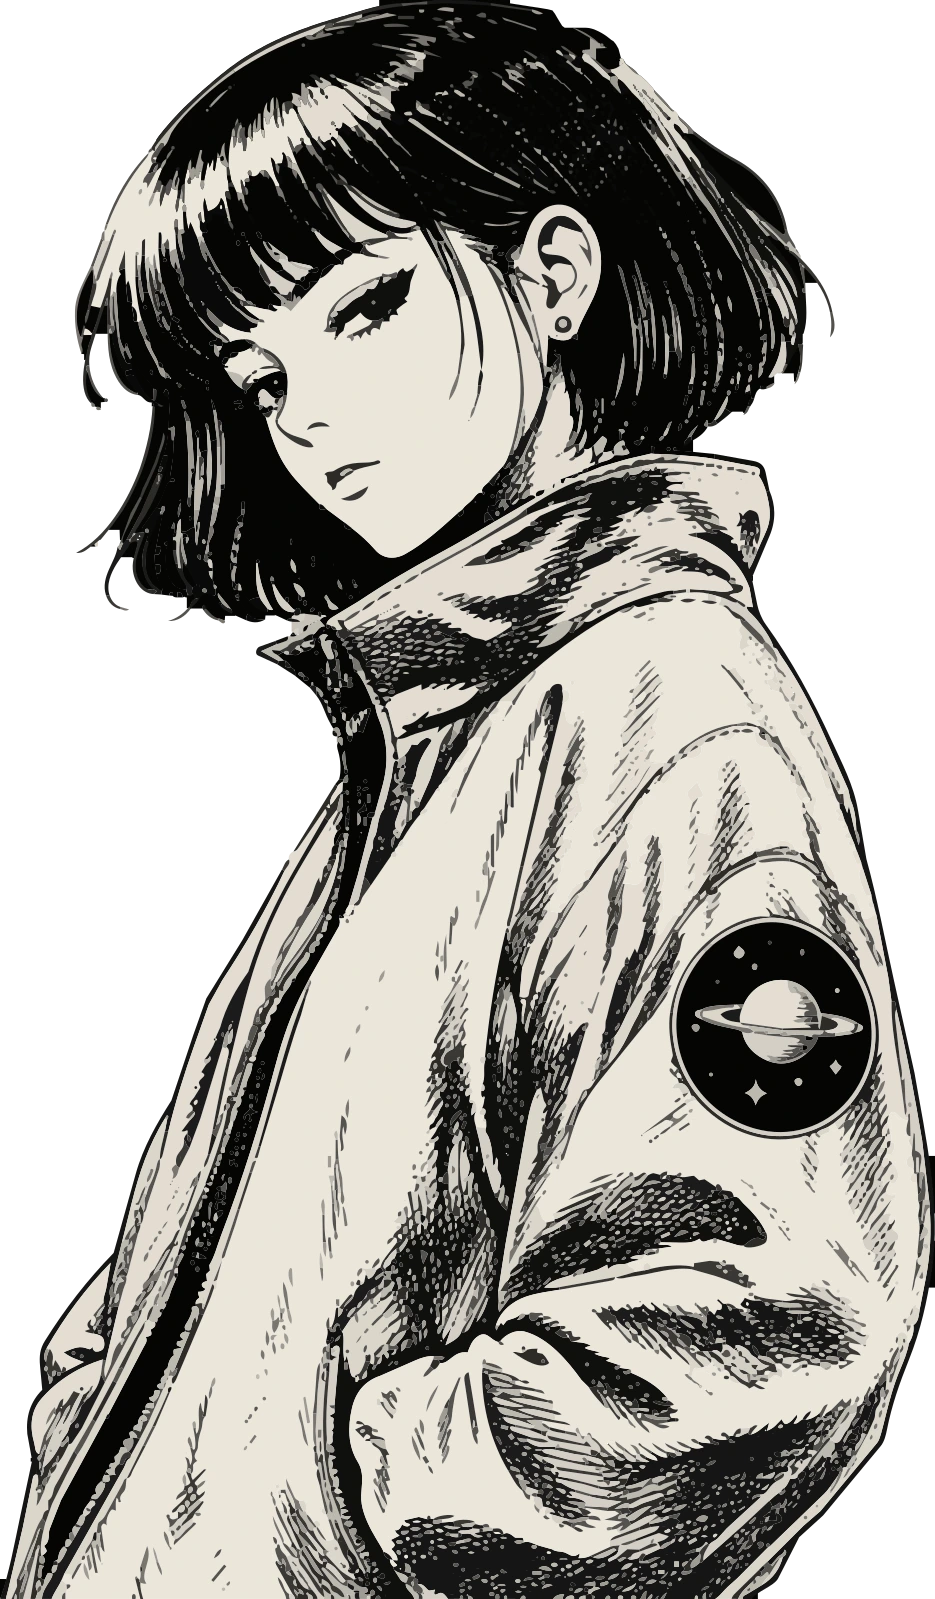
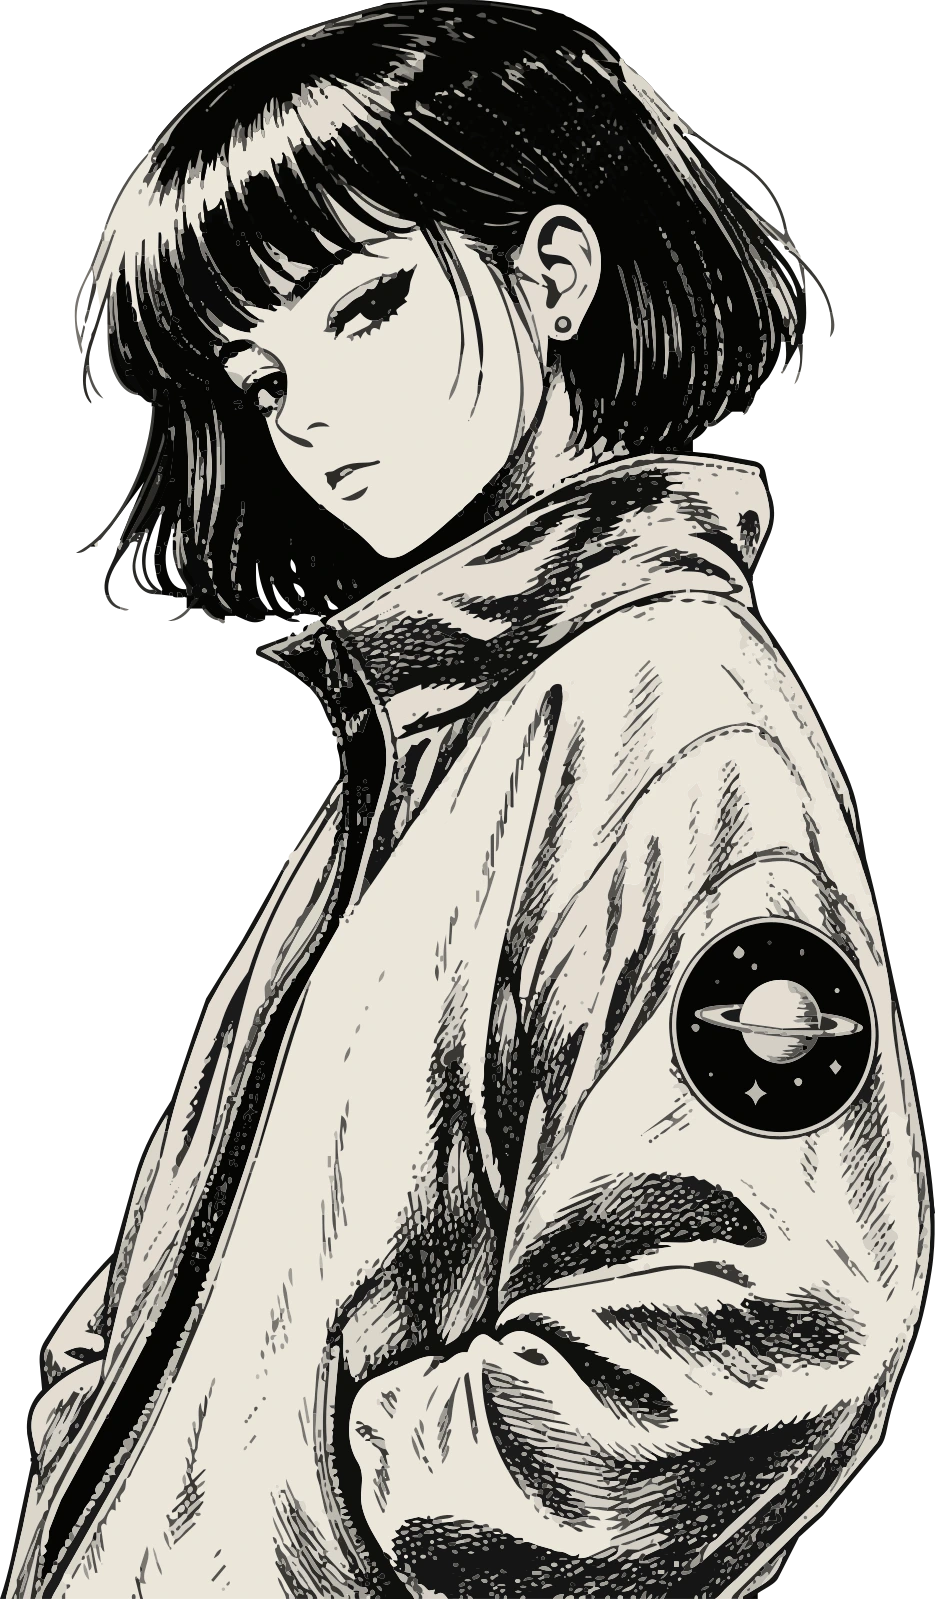
Mascot: use Henrik's final cleaned SVG (mascotDM_final.svg), re-rendered webps, ?v=4

diff --git a/public/web_assets/site_shell.js b/public/web_assets/site_shell.js
@@ -122,7 +122,7 @@
       return /\/(play|console|builder|ai|tools|guides|blog)(\/|$)/.test(p) ? '../' : '';
     })();
     const licenseHref = isFile ? `${rootPrefix}LICENSE.txt` : '/LICENSE.txt';
-    const mascotSrc = isFile ? `${rootPrefix}web_assets/mascot/mascot-sm.webp?v=3` : '/web_assets/mascot/mascot-sm.webp?v=3';
+    const mascotSrc = isFile ? `${rootPrefix}web_assets/mascot/mascot-sm.webp?v=4` : '/web_assets/mascot/mascot-sm.webp?v=4';
 
     const socials = [
       { key: 'x', label: 'X', href: 'https://x.com/DungeonMastron' },

diff --git a/public/index.html b/public/index.html
@@ -665,7 +665,7 @@
             <circle cx="522" cy="662" r="1.5" fill="rgba(236,230,218,0.4)"/>
           </svg>
         </div>
-        <img class="mascot" src="web_assets/mascot/mascot.webp?v=3" alt="" width="935" height="1599" fetchpriority="high" />
+        <img class="mascot" src="web_assets/mascot/mascot.webp?v=4" alt="" width="935" height="1599" fetchpriority="high" />
       </div>
     </div>
   </header>
